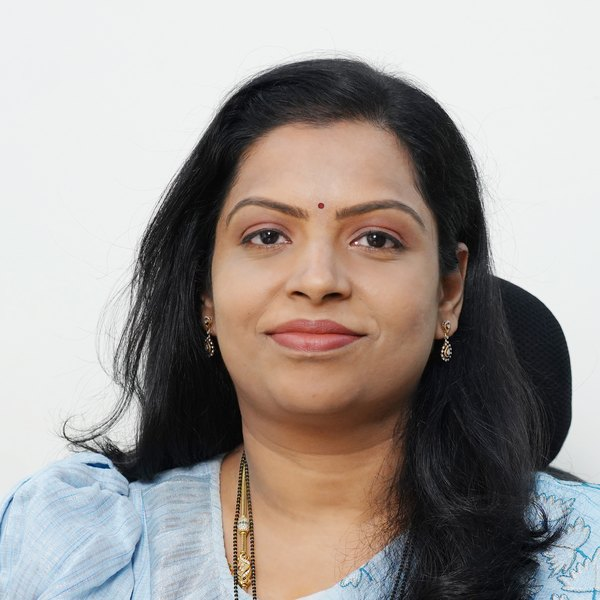
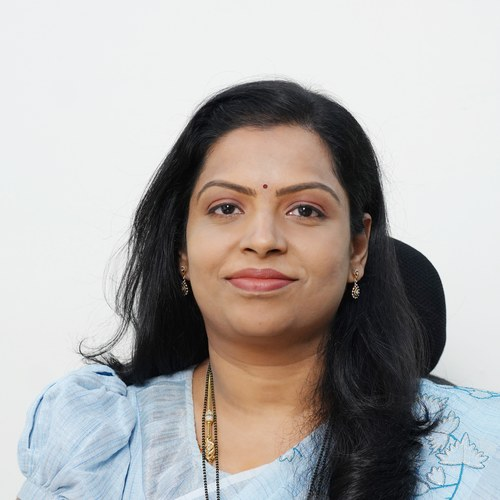
Matched doctor photo face sizes and centring

diff --git a/src/imports/HomePage/HomePage.tsx b/src/imports/HomePage/HomePage.tsx
@@ -3,7 +3,7 @@ import svgPaths from "./svg-vjjq4l2gti";
 import imgCompassionateCare from "./18240dddcbf6c4f7795ef985ee035eeefcb55433.png";
 import imgHappyCouple from "./3ad14ffb65dd2e98b968b5d03edbb1317c95771e.png";
 import imgDoctor from "./a80c7ab28b3375de2899d3aa5a1bf96cfc38fe5f.png";
-import imgDoctorNew from "./WhatsApp Image 2026-05-21 at 11.06.49 AM.jpeg";
+import imgDoctorMithila from "./doctor-mithila.jpg";
 import imgDoctorUdayani from "./doctor-udayani.jpg";
 import imgImage from "./c07bed52fb37b7ddaae3cfd4898d9b22b9ad0db7.png";
 import imgHeroFamily from "./hero-family.png";
@@ -2805,9 +2805,9 @@ function MeetOurDoctors() {
       ],
       specialties: ["IVF / ICSI", "Recurrent Pregnancy Loss", "Endometriosis", "PCOS Management"],
       accent: "#a74b99",
-      photo: imgDoctorNew,
-      // this photo is uncropped, so it needs zooming to fill the circle
-      photoFit: { transform: "scale(1.5)", transformOrigin: "50% 18%" },
+      photo: imgDoctorMithila,
+      // pre-cropped headshot, head sized to match Dr. Udayani
+      photoFit: {},
     },
     {
       name: "Dr. M. Udayani",
